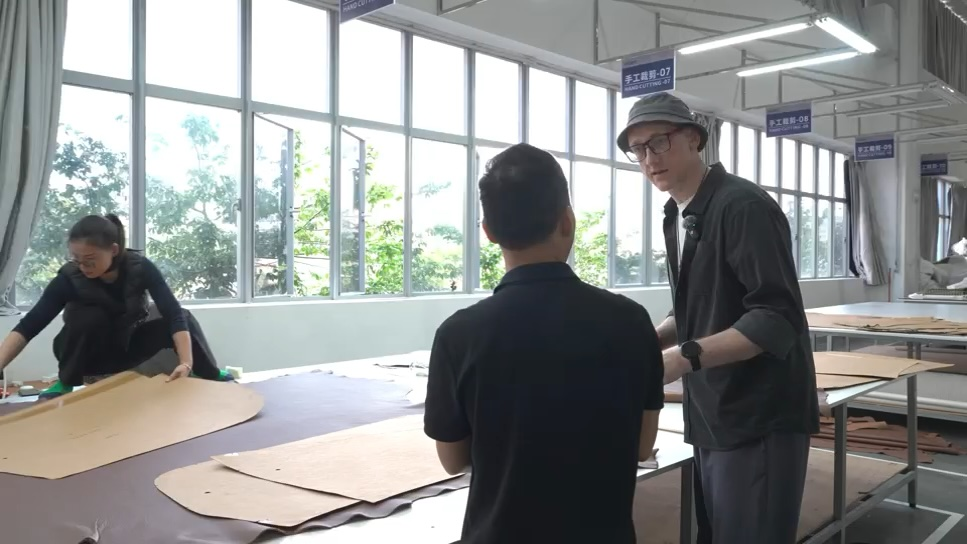
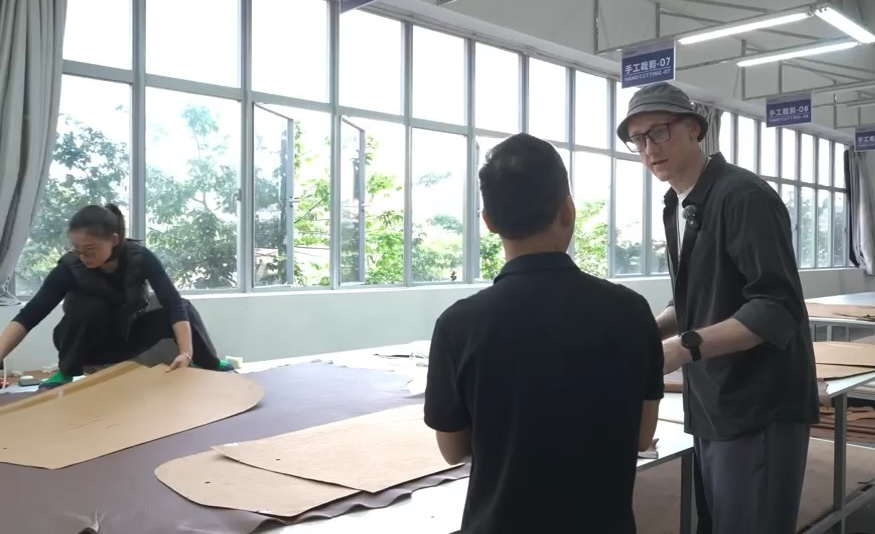
u

diff --git a/founder_hp/index.html b/founder_hp/index.html
@@ -120,8 +120,8 @@
         .eyebrow {
             margin: 0 0 0.85rem;
             font-family: var(--font-display);
-            font-size: 1.05rem;
-            font-weight: 400;
+            font-size: 1.08rem;
+            font-weight: 600;
             font-style: italic;
             line-height: 1.4;
             color: var(--color-brass);
@@ -170,6 +170,14 @@
             text-wrap: balance;
         }
 
+        .section-bridge {
+            margin: -0.35rem 0 1.75rem;
+            font-size: clamp(1.02rem, 2.2vw, 1.12rem);
+            line-height: 1.65;
+            color: var(--color-ink-muted);
+            text-wrap: balance;
+        }
+
         .doc-visual {
             margin: 0 0 2rem;
             border-radius: 2px;
@@ -183,16 +191,6 @@
             aspect-ratio: 16 / 9;
             object-fit: cover;
             object-position: center 42%;
-        }
-
-        .doc-visual__caption {
-            margin: 0;
-            padding: 0.65rem 0.85rem;
-            font-size: 0.8rem;
-            line-height: 1.45;
-            color: var(--color-ink-faint);
-            background: var(--color-surface);
-            border-top: 1px solid var(--color-hairline);
         }
 
         .btn {
@@ -346,7 +344,7 @@
             margin: 0 0 0.5rem;
             font-family: var(--font-display);
             font-size: clamp(1.15rem, 2.5vw, 1.3rem);
-            font-weight: 500;
+            font-weight: 600;
             line-height: 1.25;
             color: var(--color-ink);
         }
@@ -505,10 +503,6 @@
             color: var(--color-ink-muted);
         }
 
-        .founder-note p + p {
-            margin-top: 0.85rem;
-        }
-
         .founder-sign {
             display: flex;
             align-items: center;
@@ -541,32 +535,34 @@
         }
 
         .founder-closing {
-            margin-top: clamp(1.75rem, 4vw, 2.25rem);
+            margin-top: clamp(2rem, 5vw, 2.75rem);
             padding-top: 0;
             text-align: center;
         }
 
         .founder-closing__lede {
             margin: 0 auto;
-            padding: 0 clamp(1.25rem, 6vw, 2.5rem);
-            max-width: 22rem;
+            padding: 0 clamp(1rem, 5vw, 2rem);
+            max-width: 28rem;
             font-family: var(--font-display);
-            font-size: clamp(1.1rem, 2.4vw, 1.22rem);
+            font-size: clamp(1.35rem, 3.4vw, 1.75rem);
             font-weight: 600;
             font-style: normal;
-            line-height: 1.5;
-            letter-spacing: 0.01em;
+            line-height: 1.35;
+            letter-spacing: 0.015em;
             color: var(--color-ink);
             text-wrap: balance;
         }
 
         .founder-closing__btn {
-            margin-top: 1.35rem;
+            margin-top: 1.65rem;
             text-align: center;
         }
 
         .founder-closing__btn .btn {
-            min-width: min(100%, 18rem);
+            min-width: min(100%, 22rem);
+            font-size: clamp(0.98rem, 2.1vw, 1.1rem);
+            padding-inline: 1.5rem;
         }
 
         @media (max-width: 559px) {
@@ -778,7 +774,6 @@
                     fetchpriority="high"
                     decoding="async"
                 >
-                <figcaption class="doc-visual__caption">Ten days on the ground in Foshan &mdash; the malls, the factories, the tests.</figcaption>
             </figure>
 
             <h1 id="hero-title" class="hero-title reveal reveal--d2">You&rsquo;ve seen Foshan.<br>Now let&rsquo;s talk about your home.</h1>
@@ -847,6 +842,7 @@
         <div class="container">
             <p class="eyebrow reveal">Simple, honestly</p>
             <h2 id="process-title" class="section-title reveal reveal--d1">How it works</h2>
+            <p class="section-bridge reveal reveal--d1">I&rsquo;d like to help with your home renovation in three easy steps.</p>
 
             <ol class="steps">
                 <li class="step reveal reveal--d1">
@@ -867,7 +863,7 @@
                     <span class="step__num" aria-hidden="true">3</span>
                     <h3 class="step__title">We make it happen</h3>
                     <p class="step__body">
-                        Tailoring, production, QC, shipping, delivery. We stay involved until it&rsquo;s in your home.
+                        Tailoring, production, order consolidation, QC, shipping, delivery. We stay involved until it&rsquo;s in your home.
                     </p>
                 </li>
             </ol>
@@ -880,7 +876,7 @@
             <p class="eyebrow reveal">Not generic claims</p>
             <h2 id="trust-title" class="section-title reveal reveal--d1">We didn&rsquo;t just visit these factories.<br>We filmed inside them.</h2>
             <p class="body-text reveal reveal--d2">
-                Most sourcing services talk about &ldquo;factory partners&rdquo; in the abstract. You watched us walk the floors, pull apart sofas, and run head-to-head tests. That footage is the proof.
+                Most sourcing services talk about &ldquo;factory partners&rdquo; in the abstract. You watched us walk the floors, pull apart sofas, and run head-to-head tests.
             </p>
 
             <div class="proof-grid reveal reveal--d3">
@@ -918,7 +914,7 @@
 
             <div class="collections-block reveal">
                 <div class="collections-block__header">
-                    <p class="eyebrow">Step 1 in action</p>
+                    <p class="eyebrow">Preview of Step 1</p>
                     <h3 class="section-title" style="margin-bottom: 0;">Whole-room collections, ready to browse</h3>
                 </div>
 
@@ -1000,7 +996,7 @@
                 </div>
 
                 <div class="collections-block__cta">
-                    <button type="button" class="lp-btn--brass" data-open-showroom>Browse all collections</button>
+                    <button type="button" class="lp-btn--brass" data-open-showroom>Browse more collections</button>
                 </div>
             </div>
         </div>
@@ -1036,7 +1032,6 @@
 
             <div class="founder-note reveal reveal--d3">
                 <p>If it&rsquo;s not the right fit, I&rsquo;ll say so. No hard sell, no follow-up spam. Just an honest conversation about your home.</p>
-                <p>That&rsquo;s the deal at this stage. I think it&rsquo;s a fair one.</p>
             </div>
 
             <p class="founder-sign reveal">
@@ -1048,7 +1043,7 @@
             <div class="founder-closing reveal">
                 <p class="founder-closing__lede">Ready when you are &mdash; tap below and tell me what&rsquo;s on your mind.</p>
                 <div class="btn-row founder-closing__btn">
-                    <button type="button" class="btn" data-open-contact>Tell me about your home</button>
+                    <button type="button" class="btn" data-open-contact>Contact me, tell me what you need</button>
                 </div>
             </div>
         </div>